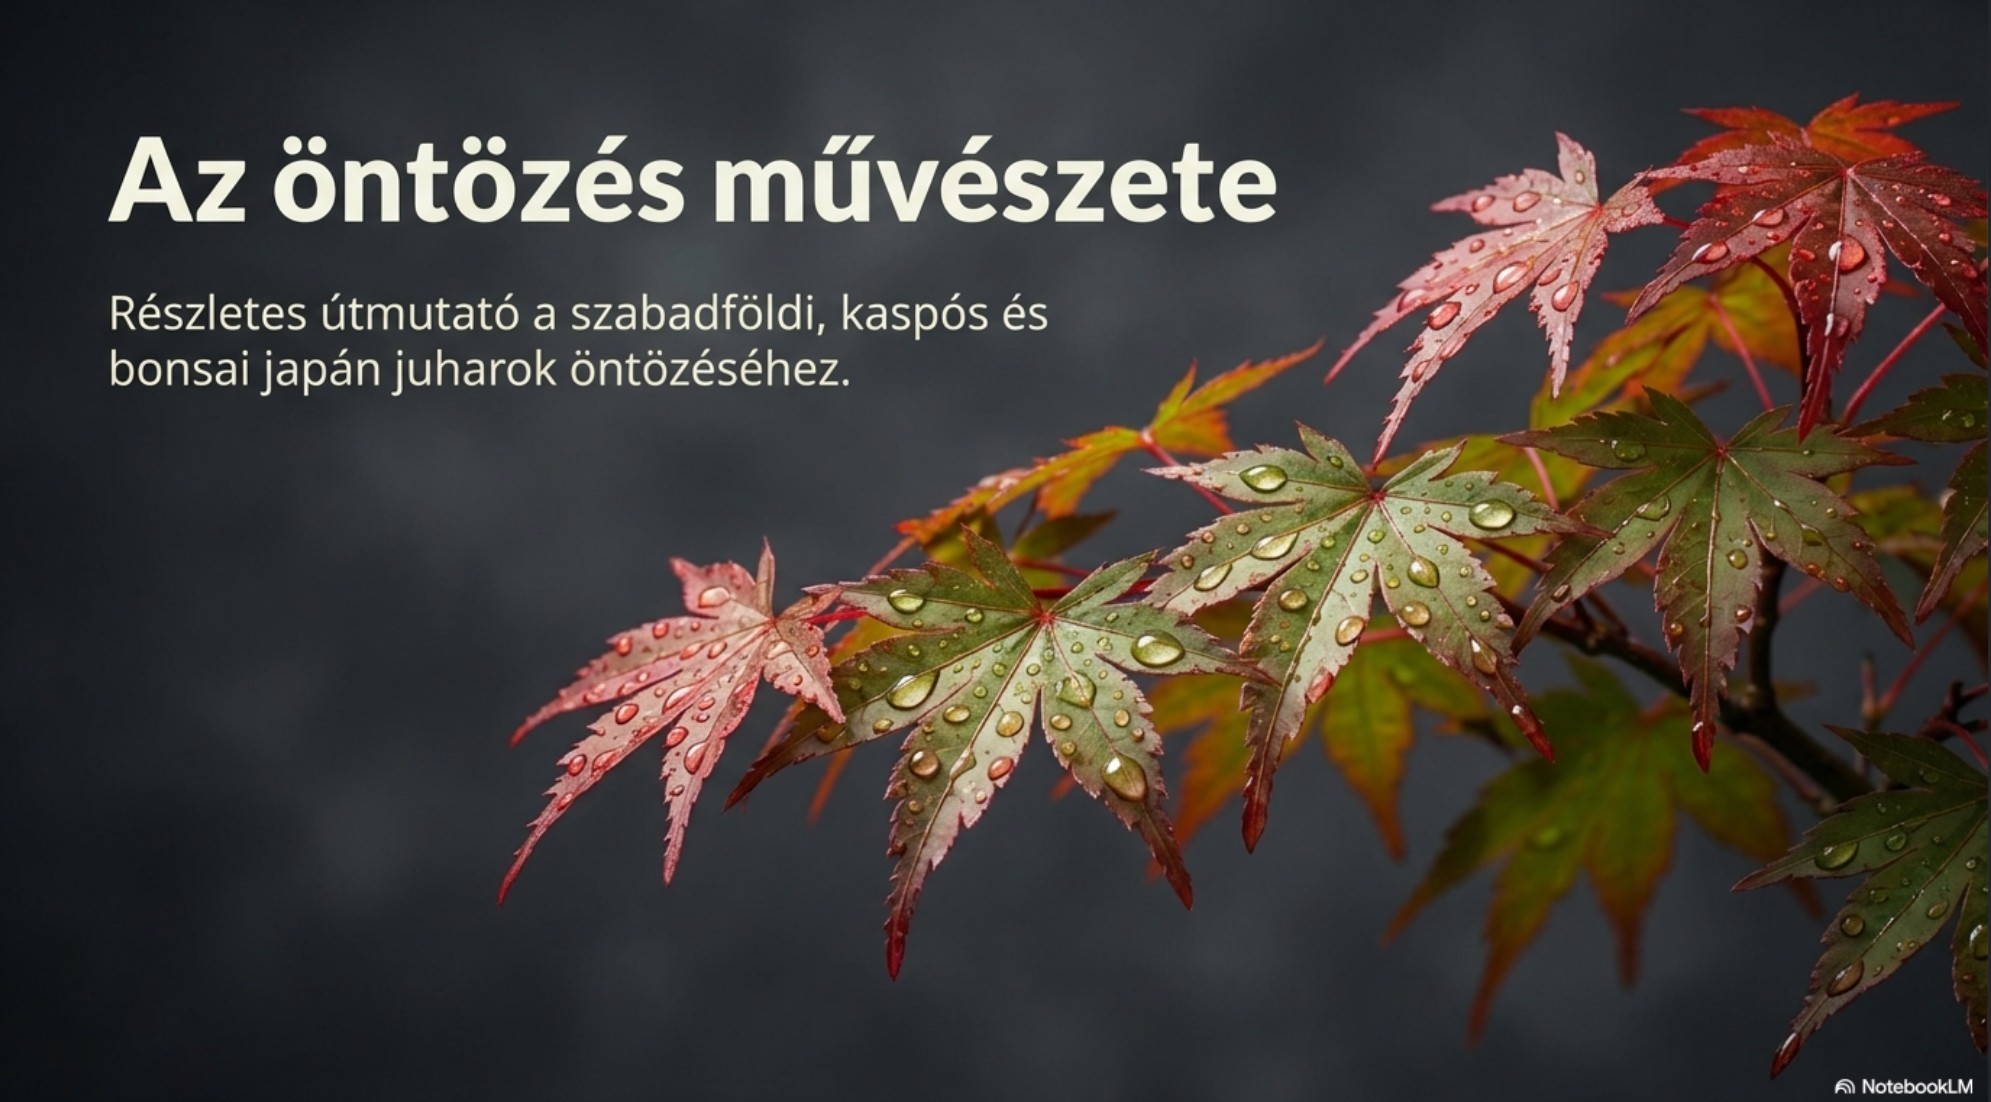
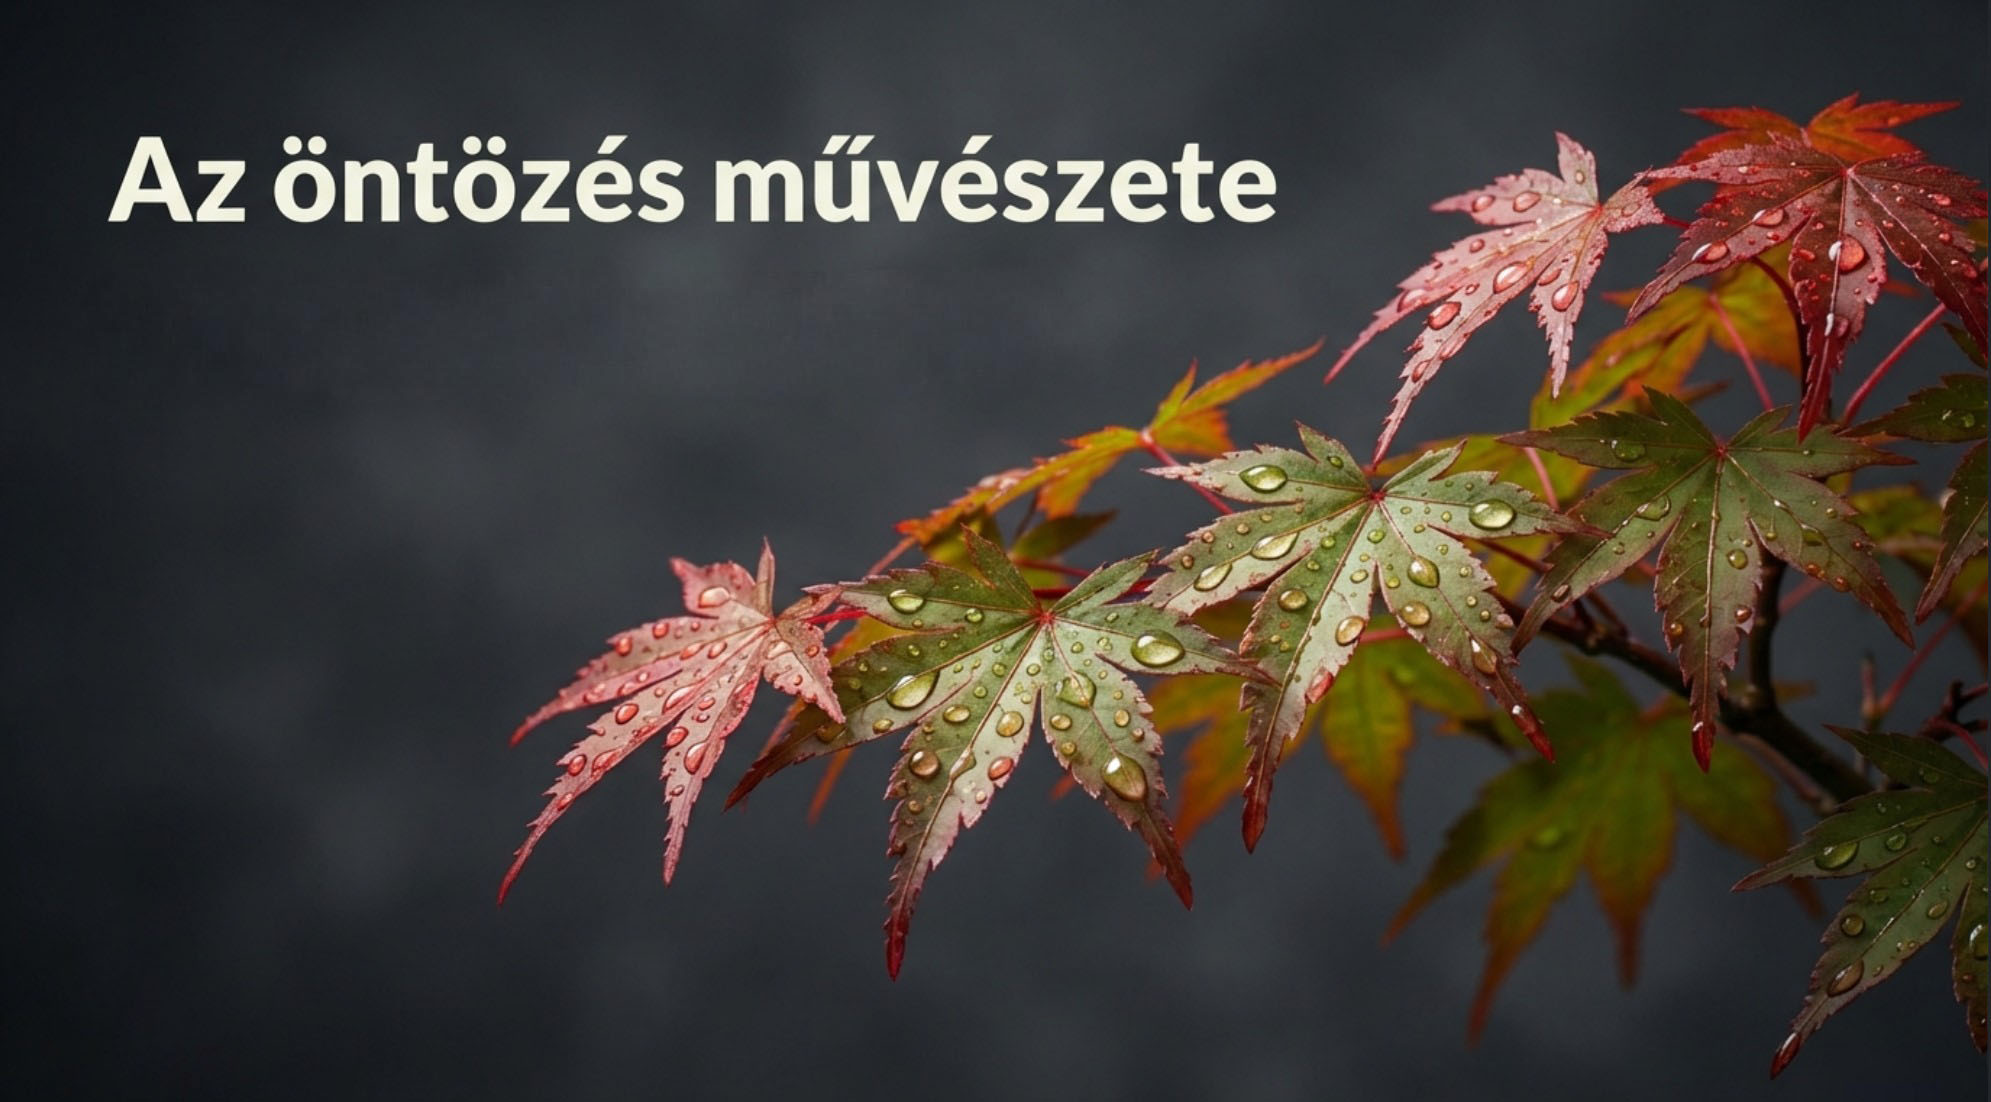
Update 2026-01-15 17:51:56

Changed region(s): [[0.0623, 0.2468, 0.5294, 0.3702], [0.9031, 0.9564, 0.9965, 1.0]]

diff --git a/_layouts/post.html b/_layouts/post.html
@@ -252,47 +252,42 @@ article.post {
 
 .bonsai-content ul,
 .bonsai-content ol {
-  margin: 1.5rem 0;
-  padding-left: 2rem;
+  margin: 1.2rem 0;
+  padding-left: 0;
+  list-style-position: outside;
 }
 
 .bonsai-content ul li,
 .bonsai-content ol li {
-  margin-bottom: 0.8rem;
+  margin-bottom: 0.6rem;
+  margin-left: 1.5rem;
+  padding-left: 0.5rem;
   line-height: 1.7;
   text-align: justify !important;
 }
 
 .bonsai-content ul {
-  list-style: none;
+  list-style: disc;
+  list-style-position: outside;
 }
 
-.bonsai-content ul li::before {
-  content: "◦";
+.bonsai-content ul li {
+  padding-left: 0.3rem;
+}
+
+.bonsai-content ul li::marker {
   color: var(--bonsai-primary);
-  font-weight: bold;
-  display: inline-block;
-  width: 1.2em;
-  margin-left: -1.2em;
+  font-size: 0.8em;
 }
 
 .bonsai-content ol {
-  counter-reset: bonsai-counter;
-  list-style: none;
+  list-style: decimal;
+  list-style-position: outside;
 }
 
-.bonsai-content ol li {
-  counter-increment: bonsai-counter;
-  position: relative;
-}
-
-.bonsai-content ol li::before {
-  content: counter(bonsai-counter) ".";
+.bonsai-content ol li::marker {
   color: var(--bonsai-primary);
   font-weight: 600;
-  display: inline-block;
-  width: 1.8em;
-  margin-left: -1.8em;
 }
 
 /* ═══════════════════════════════════════════════════════════════════════

diff --git a/_posts/2026-01-15-watering.md b/_posts/2026-01-15-watering.md
@@ -1,41 +1,111 @@
 ---
 layout: post
-title: "Az öntözés művészete"
-subtitle: "Így tartsd életben Japán juharodat minden körülmény között"
+title: "Így tartsd életben Japán juharodat minden körülmény között"
+subtitle: "Részletes útmutató a szabadföldi, kaspós és bonsai Japán juharok öntözéséhez"
 date: 2026-01-15
 categories: [Gondozás]
 tags: [Gondozás, Japán juhar]
 hero_image: /assets/blog/260114_watering_hero.jpg
 youtube_id: 
-hidden: true
+hidden: false
 ---
-## Részletes útmutató a szabadföldi, kaspós és bonsai Japán juharok öntözéséhez
 
-A Japán juhar nevelése során az öntözés nem csupán egy rutinfeladat, hanem a növény egészségének és esztétikai értékének legfontosabb záloga. A víz a fában elsősorban szállítóközegként működik, de legfőbb feladata a hő elszállítása: a fa által felvett víz közel 85%-a kizárólag hűtésre szolgál, mintha csak egy beépített légkondicionáló lenne.
-Ahhoz, hogy juharod tündököljön, meg kell értened az öntözés
+A Japán juhar öntözése elsőre egyszerűnek tűnik, valójában azonban egy folyamatosan változó egyensúlyról szól. Nem időpont szerint öntözünk, hanem mindig a talaj aktuális nedvessége alapján. A juhar nem tűri a szélsőségeket: a kiszáradás éppúgy káros, mint a pangó víz. Egészsége a gyökerek oxigénellátásán és a víz megfelelő áramlásán múlik.
 
-1. Az öntözés alapelvei: Egyensúly és hűtés
-A víz legfőbb feladata a hő elszállítása a leveleken keresztül (transzspiráció), ami lehetővé teszi, hogy a fa szövetei a nyári hőségben se károsodjanak. A bonsai-nevelésben a legfontosabb alapelv a víz és az oxigén egyensúlya a gyökérzónában; a gyökereknek ugyanis „lélegezniük” is kell.
-• Az öntözés ritmusa: A Japán juhar nem kedveli a szélsőségeket. A cél a kiegyensúlyozott állandóság: ne hagyjuk teljesen kiszáradni, de ne is álljon folyamatosan vízben a növény.
-• Mikor öntözzünk? A legideálisabb a kora reggel, amikor a nap még nem tűz erősen.
-• Déli tilalom: Soha ne öntözzünk tűző napon a levelekre, mert a vízcseppek nagyítóként viselkedve megégethetik a lombot.
-2. Szabadföldi juharok: Mélység és védelem
-A kiültetett fáknál a legfontosabb a gyökerek hűvösen tartása és a mélyreható öntözés.
-• Mély öntözés: Inkább ritkábban, de bőségesen locsoljunk, hogy a nedvesség a mélyebb rétegekbe is eljusson.
-• Mulcsozás: Terítsünk a fa köré 5–8 cm vastag fenyőkérget. Ez megvédi a sekélyen elhelyezkedő gyökereket a kiszáradástól és a túlmelegedéstől.
-• Ujjteszt: Szabadföldön is alkalmazható: ha a föld felső 4-5 cm-es rétege száraz, öntözni kell.
-3. Kaspós nevelés: A kontrollált környezet
-Cserépben a növény sokkal gyorsabban kiszárad, mint szabadföldben.
-• Helyes technika: Addig öntözzünk, amíg a víz meg nem jelenik a cserép alján lévő lyukakon. Ez kimossa a talajban felgyülemlett káros ásványi anyagokat és sókat is.
-• Hővédelem: A sötét színű kaspók a napon „megfőzhetik” a gyökereket, ezért kánikulában árnyékoljuk magát az edényt.
-• Tálca használata: Beltéri juharoknál használhatunk vízzel és kaviccsal teli tálcát a páratartalom növelésére, de az edény alja soha ne érjen bele közvetlenül a vízbe.
-4. Bonsai tálban: A precizitás művészete
-Mivel a bonsai tálban minimális a földmennyiség, itt a legkisebb hiba is végzetes lehet.
-• Akadama jelzés: Ha japán Akadama földet használunk, annak színe pontosan mutatja a vízigényt: a sötétbarna hidratált, a világosbarna/sárgás pedig szomjas növényt jelez.
-• Bemerítéses módszer: Ha a talaj teljesen kiszáradt, az edényt a pereméig vízbe állíthatjuk 5–10 percre, hogy a közeg teljesen megszívja magát.
-• Lombpermetezés: Segít a páratartalom növelésében, de csak reggel végezzük, hogy estére a lomb megszáradjon, elkerülve a gombásodást.
-5. Szezonális és minőségi szempontok
-• Vízminőség: A Japán juhar érzékeny a meszes (kemény) vízre, ami leveleinek sárgulásához (klorózishoz) vezethet. A legalkalmasabb az esővíz vagy a 24 órát pihentetett csapvíz.
-• Tavaszi figyelem: Rügyfakadáskor bánjunk csínján a vízzel; a túl sok víz ilyenkor megnyúlt hajtásokat és túl nagy leveleket eredményez.
-• Téli öntözés: A nyugalmi időszakban is ellenőrizni kell a földet. Fagymentes napokon, ha a föld felszíne szikkadni kezd, adjunk neki kevés vizet, mert a fagyott gyökérzet nem tudja pótolni a párologtatásból eredő vízveszteséget.
-Összegzés: A sikeres öntözés titka nem egyetlen szabály betartásában, hanem a növény folyamatos megfigyelésében rejlik
+A talajszerkezet kulcskérdés. A jó vízelvezetésű, enyhén savanyú, szemcsés közeg gyorsan elvezeti a felesleget, mégis megtartja a szükséges nedvességet. Ilyen földben gyakrabban kell öntözni, de sokkal kisebb a gyökérfulladás kockázata. A tömör, agyagos talaj ezzel szemben hosszú távon oxigénhiányt okoz, még akkor is, ha „sosem szárad ki”.
+
+A vízigény fajtánként eltérő. A robusztusabb, vastag levelű juharok jobban viselik a napot és a rövid száraz időszakokat, míg a szeldelt vagy tarkalevelű fajták finom levelei gyorsan reagálnak a legkisebb vízhiányra is. A környezeti hatások – hőség, szél, alacsony páratartalom – gyakran nagyobb szerepet játszanak, mint maga a talaj. Előfordulhat, hogy a föld nedves, mégis perzselődik a levél: ilyenkor nem vízhiányról, hanem túlzott párologtatásról beszélünk.
+
+A fiatal, frissen ültetett juhar gyakrabban igényel vizet, míg egy beállt, idősebb fa ritkábban, de alaposabban öntözendő. A cserép mérete, anyaga, a lomb mennyisége és az évszakok ritmusa mind befolyásolják az igényeket. Nyáron a kora reggeli öntözés segít a hűtésben, ősszel a víz fokozatos csökkentése a felkészülést támogatja, télen pedig fagymentes időben sem szabad teljesen megfeledkezni róla.
+
+---
+
+## Az öntözés alapelvei: Egyensúly és hűtés
+
+A víz legfőbb feladata a hő elszállítása a leveleken keresztül (transzspiráció), ami lehetővé teszi, hogy a fa szövetei a nyári hőségben se károsodjanak. A bonsai-nevelésben a legfontosabb alapelv a víz és az oxigén egyensúlya a gyökérzónában; a gyökereknek ugyanis „lélegezniük" is kell.
+
+**Alapvető szabályok:**
+
+- **Ritmus és állandóság** – A Japán juhar nem kedveli a szélsőségeket. A cél a kiegyensúlyozott állandóság: ne hagyjuk teljesen kiszáradni, de ne is álljon folyamatosan vízben a növény.
+- **Időzítés** – A legideálisabb a kora reggel, amikor a nap még nem tűz erősen.
+- **Déli tilalom** – Soha ne öntözzünk tűző napon a levelekre, mert a vízcseppek nagyítóként viselkedve megégethetik a lombot.
+
+---
+
+## Szabadföldi juharok: Mélység és védelem
+
+A kiültetés utáni első két évben kiemelt figyelmet igényel. A legfontosabb a gyökerek hűvösen tartása és a mélyreható öntözés.
+
+**Öntözési stratégia:**
+- **Mély öntözés** – Inkább ritkábban, de bőségesen locsoljunk, hogy a nedvesség a mélyebb rétegekbe is eljusson. Az ujjtesztet alkalmazva: ha a föld felső 4-5 cm-es rétege száraz, öntözni kell.
+- **Mulcsozás** – Terítsünk a fa köré 5–8 cm vastag fenyőkérget. Ez megvédi a sekélyen elhelyezkedő gyökereket a kiszáradástól és a túlmelegedéstől, hűvösen tartja a gyökereket, és gátolja a gyomokat. *Fontos:* a mulcsot soha ne halmozd közvetlenül a törzshöz, mindig maradjon a törzs szabadon, hogy elkerüld a rothadást.
+- **Begyökeresedett fák** – A jól begyökeresedett, többéves fák már sokkal ellenállóbbak a szárazságra, de a hosszantartó, forró, csapadékmentes időszakokban hálásak a kiegészítő öntözésért.
+
+<figure style="text-align: center; margin: 40px auto; max-width: 700px;">
+  <img src="/assets/blog/260114_watering_3.jpg" alt="Mulcsozott talajtakaró fenyőkéreggel" style="width: 100%; border-radius: 12px; box-shadow: 0 4px 16px rgba(0,0,0,0.15); display: block; margin: 0 auto;">
+  <figcaption style="margin-top: 15px; font-style: italic; color: #666; font-size: 0.95em;">A megfelelő mulcsozás megvédi a gyökérrendszert és segít fenntartani az optimális talajnedvességet</figcaption>
+</figure>
+
+---
+
+## Kaspós nevelés: A kontrollált környezet
+
+<div style="display: grid; grid-template-columns: 1fr 1fr; gap: 2rem; align-items: start; margin: 2rem 0;">
+  <div>
+    <p>Cserépben a növény sokkal gyorsabban kiszárad, mint szabadföldben. Nyári hőségben napi ellenőrzés és gyakran napi öntözés is szükséges lehet.</p>
+    <p><strong>Praktikus tippek:</strong></p>
+    <ul>
+      <li><strong>Helyes technika</strong> – Addig öntözzünk, amíg a víz meg nem jelenik a cserép alján lévő lyukakon. Ez kimossa a talajban felgyülemlett káros ásványi anyagokat és sókat is.</li>
+      <li><strong>Hővédelem</strong> – A sötét színű kaspók a napon „megfőzhetik" a gyökereket, ezért kánikulában árnyékoljuk magát az edényt.</li>
+      <li><strong>Tálca használata</strong> – Teraszon nevelt juharoknál használhatunk vízzel és kaviccsal teli tálcát a páratartalom növelésére, de az edény alja soha ne érjen bele közvetlenül a vízbe.</li>
+    </ul>
+  </div>
+
+  <div>
+    <figure style="text-align: center; margin: 0;">
+      <img src="/assets/blog/260114_watering_4.jpg" alt="Kaspóban nevelt Japán juhar" style="width: 100%; border-radius: 12px; box-shadow: 0 4px 16px rgba(0,0,0,0.15);">
+      <figcaption style="margin-top: 15px; font-style: italic; color: #666; font-size: 0.9em;">Kaspós nevelésnél a rendszeres ellenőrzés és az alapos öntözés a kulcs</figcaption>
+    </figure>
+  </div>
+</div>
+
+<style>
+@media (max-width: 768px) {
+  div[style*="grid-template-columns: 1fr 1fr"] {
+    grid-template-columns: 1fr !important;
+  }
+}
+</style>
+
+---
+
+## Bonsai tálban: A precizitás művészete
+
+Mivel a bonsai tálban minimális a vízmegtartó közeg, itt a legkisebb hiba is végzetes lehet. A bonsai földkeverék (pl. Akadama, pumice, lávakő) kiváló vízelvezetésű, de kevés vizet tart meg. Ezért a gyakori és alapos öntözés kritikus.
+
+**Speciális technikák:**
+- **Akadama jelzés** – Az Akadama színe pontosan mutatja a vízigényt: a sötétbarna hidratált, a világosbarna/sárgás pedig szomjas növényt jelez.
+- **Bemerítéses módszer** – Ha a talaj teljesen kiszáradt, az edényt a pereméig vízbe állíthatjuk pár percre, hogy a közeg teljesen megszívja magát, és a víz mélyebb rétegekbe is behatolhasson.
+- **Lombpermetezés** – Segít a páratartalom növelésében, azonban este kerülni kell, mert nehezebben szárad és gombásodást okozhat.
+
+---
+
+## Szezonális és minőségi szempontok
+
+**Vízminőség:**
+A Japán juhar érzékeny a meszes (kemény) vízre, ami leveleinek sárgulásához (klorózishoz) vezethet. A legalkalmasabb az esővíz vagy a 24 órát pihentetett csapvíz.
+**Tavaszi figyelem:**
+Rügyfakadáskor bánjunk csínján a vízzel; a túl sok víz ilyenkor megnyúlt hajtásokat és túl nagy leveleket eredményez.
+**Téli öntözés:**
+A nyugalmi időszakban is ellenőrizni kell a földet. Fagymentes napokon, ha a föld felszíne szikkadni kezd, adjunk neki kevés vizet, mert a fagyott gyökérzet nem tudja pótolni a párologtatásból eredő vízveszteséget. Télen körülbelül 3-4 hetente szükséges, de mindig ellenőrzés után öntözünk.
+
+---
+
+## Összegzés
+
+A sikeres öntözés titka nem egyetlen szabály betartásában, hanem a növény folyamatos megfigyelésében rejlik. Minden Japán juhar egyedi: más a környezete, más a nevelési formája, más az életkora. A tapasztalat és az odafigyelés vezet el a helyes egyensúlyhoz, ahol a juhar egészséges, életerős marad, és minden évszakban gyönyörű látványt nyújt.
+
+<figure style="text-align: center; margin: 40px 0;">
+  <img src="/assets/blog/260114_watering_5.jpg" alt="Egészséges, gondozott Japán juhar" style="width: 100%; max-width: 800px; border-radius: 12px; box-shadow: 0 4px 16px rgba(0,0,0,0.15);">
+  <figcaption style="margin-top: 15px; font-style: italic; color: #666; font-size: 0.95em;">A folyamatos megfigyelés és gondos öntözés eredménye: egészséges, életerős Japán juhar</figcaption>
+</figure>

diff --git a/_posts/2026-01-14-pot.md b/_posts/2026-01-14-pot.md
@@ -12,7 +12,7 @@ hidden: false
 
 ## A Japán juhar nevelése kaspóban
 
-A Japán juhar nevelésekor a választott edény vagy kaspó nem csupán egy funkcionális tárgy, hanem a kompozíció szerves része. Ahogy egy festménynek a keret, úgy a juharnak a kaspó adja meg a végső karaktert, miközben alapvetően meghatározza a gyökérzet egészségét is. A rosszúl megválasztott kaspó nemcsak a látványt rontja, de komolyan veszélyeztetheti a fa egészségét. Lássuk milyen szempontok alapján választhatunk kaspót anyagtípus szerint:
+A Japán juhar nevelésekor a választott edény vagy kaspó nem csupán egy funkcionális tárgy, hanem a kompozíció szerves része. Ahogy egy festménynek a keret, úgy a juharnak a kaspó adja meg a végső karaktert, miközben alapvetően meghatározza a gyökérzet egészségét is. A rosszul megválasztott kaspó nemcsak a látványt rontja, de komolyan veszélyeztetheti a fa egészségét. Lássuk milyen szempontok alapján választhatunk kaspót anyagtípus szerint:
 
 <div style="display: grid; grid-template-columns: repeat(2, 1fr); gap: 30px; margin: 40px 0; padding: 20px; background: #f9f9f9; border-radius: 8px;">
   <div style="display: flex; align-items: flex-start; gap: 15px;">
@@ -149,7 +149,7 @@ Ha mégis szeretnél gömb alakú kaspót, ezzel a megoldással tudod kivitelezn
 
 **Kaspótalpak:** Mindig emeljük fel az edényt a talajtól (talpakkal vagy akár fenyőkéreggel), hogy a víz szabadon távozhasson és az alja is szellőzhessen.
 
-**Training kaspók:** A bonsaihoz nevelési fázisban lévő növényekhez ajánlott a tavi vízinövény ültetőkosár (hydroponic basket), amely kiválóan szellőzik és segíti a finom hajszálgyökerek fejlődését. (Precízos öntözési rutint igényel!)
+**Training kaspók:** A bonsaihoz nevelési fázisban lévő növényekhez ajánlott a tavi vízinövény ültetőkosár (hydroponic basket), amely kiválóan szellőzik és segíti a finom hajszálgyökerek fejlődését. (Precíz öntözési rutint igényel!)
 
 ## 4. Összefoglaló táblázat
 
